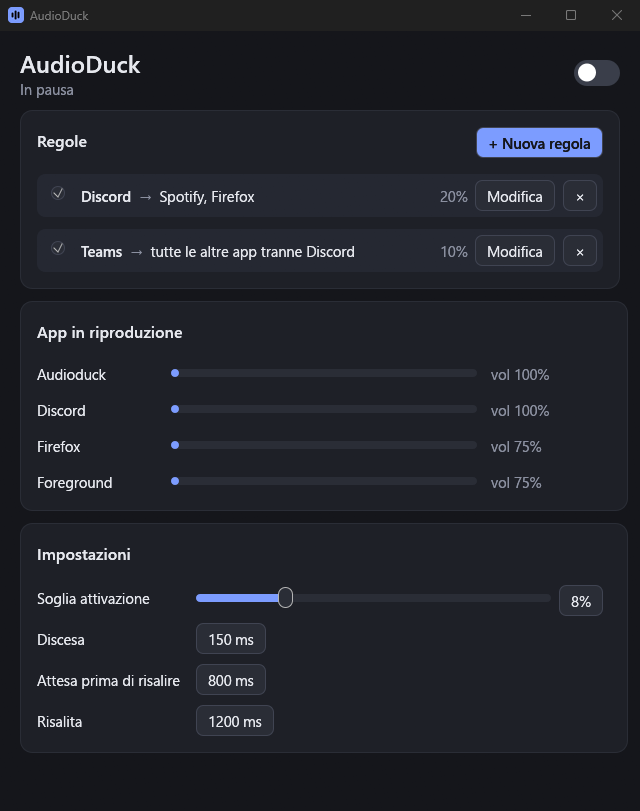
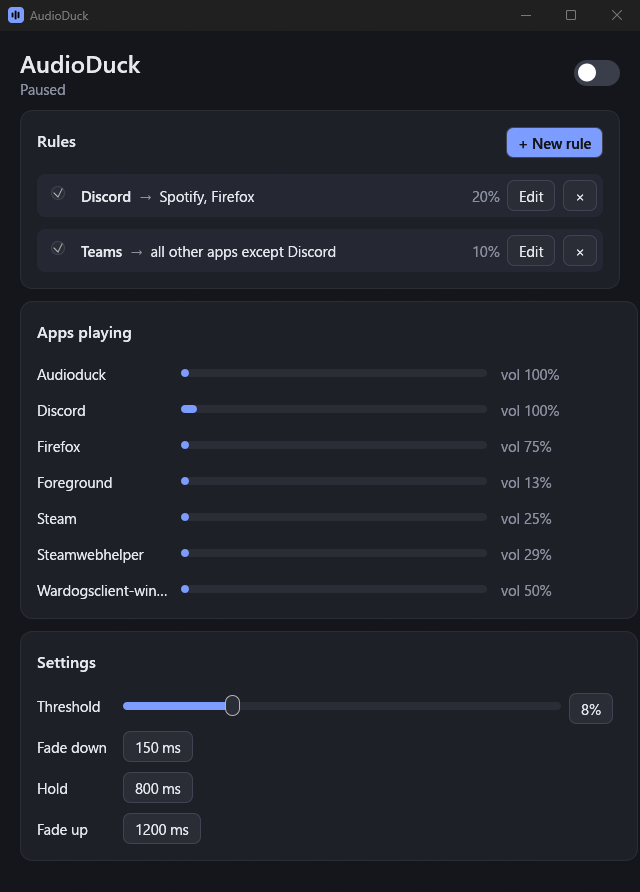
Desktop app UI in English (#18)
* Desktop app UI in English

* Shorten long app names in Apps playing and retake the screenshot in English

diff --git a/src/ui.rs b/src/ui.rs
@@ -158,12 +158,12 @@ impl Editor {
             .frame(Frame::new().fill(CARD).stroke(Stroke::new(1.0, BORDER)).corner_radius(12).inner_margin(Margin::same(18)))
             .show(ctx, |ui| {
                 ui.set_width(540.0);
-                ui.label(RichText::new(if self.index.is_some() { "Modifica regola" } else { "Nuova regola" }).size(18.0).family(semibold()));
+                ui.label(RichText::new(if self.index.is_some() { "Edit rule" } else { "New rule" }).size(18.0).family(semibold()));
                 ui.add_space(4.0);
                 ui.columns(2, |cols| {
                     let all_others = self.all_others;
-                    let right = if all_others { "…tranne queste" } else { "…abbassa" }; // with all_others the list is exclusions
-                    for (ui, (title, list)) in cols.iter_mut().zip([("Quando suona…", &mut self.sources), (right, &mut self.targets)]) {
+                    let right = if all_others { "…except these" } else { "…lower" }; // with all_others the list is exclusions
+                    for (ui, (title, list)) in cols.iter_mut().zip([("When this plays…", &mut self.sources), (right, &mut self.targets)]) {
                         ui.label(RichText::new(title).family(semibold()));
                         Frame::new().fill(BG).corner_radius(8).inner_margin(Margin::same(8)).show(ui, |ui| {
                             ui.set_width(ui.available_width());
@@ -174,16 +174,16 @@ impl Editor {
                             });
                         });
                     }
-                    cols[1].checkbox(&mut self.all_others, "Abbassa tutte le altre app");
+                    cols[1].checkbox(&mut self.all_others, "Lower all other apps");
                 });
                 ui.horizontal(|ui| {
-                    let edit = ui.add(egui::TextEdit::singleline(&mut self.manual).hint_text("App non in riproduzione, es. spotify.exe").desired_width(ui.available_width() - 100.0));
-                    if ui.button("Aggiungi").clicked() || (edit.lost_focus() && ui.input(|i| i.key_pressed(egui::Key::Enter))) {
+                    let edit = ui.add(egui::TextEdit::singleline(&mut self.manual).hint_text("App not playing yet, e.g. spotify.exe").desired_width(ui.available_width() - 100.0));
+                    if ui.button("Add").clicked() || (edit.lost_focus() && ui.input(|i| i.key_pressed(egui::Key::Enter))) {
                         self.add_manual();
                     }
                 });
                 ui.horizontal(|ui| {
-                    ui.label("Volume durante il ducking");
+                    ui.label("Volume while ducking");
                     let mut pct = (self.level * 100.0).round() as i32;
                     ui.spacing_mut().slider_width = ui.available_width() - 70.0;
                     if ui.add(Slider::new(&mut pct, 0..=100).suffix("%")).changed() {
@@ -195,17 +195,17 @@ impl Editor {
                 }
                 ui.add_space(4.0);
                 ui.with_layout(Layout::right_to_left(Align::Center), |ui| {
-                    if primary_button(ui, "Salva") {
+                    if primary_button(ui, "Save") {
                         let (sources, targets) = (Self::checked(&self.sources), Self::checked(&self.targets));
                         if sources.is_empty() {
-                            self.error = "Scegli almeno un'app che fa scattare il ducking.";
+                            self.error = "Pick at least one app that triggers ducking.";
                         } else if !self.all_others && targets.is_empty() {
-                            self.error = "Scegli almeno un'app da abbassare.";
+                            self.error = "Pick at least one app to lower.";
                         } else {
                             result = (true, Some(Rule { sources, targets, all_others: self.all_others, level: self.level, enabled: self.enabled }));
                         }
                     }
-                    if ui.button("Annulla").clicked() {
+                    if ui.button("Cancel").clicked() {
                         result = (true, None);
                     }
                 });
@@ -236,21 +236,21 @@ impl App {
 
     fn rules(&mut self, ui: &mut Ui, config: &mut Config, live: &Live) {
         let mut new_rule = false;
-        card(ui, "Regole", |ui| new_rule = primary_button(ui, "+ Nuova regola"), |ui| {
+        card(ui, "Rules", |ui| new_rule = primary_button(ui, "+ New rule"), |ui| {
             if config.rules.is_empty() {
-                ui.label(RichText::new("Nessuna regola. Esempio: quando suona Discord, abbassa Spotify al 20%.").color(MUTED));
+                ui.label(RichText::new("No rules yet. Example: when Discord plays, lower Spotify to 20%.").color(MUTED));
             }
             let mut delete = None;
             for (i, rule) in config.rules.iter_mut().enumerate() {
                 Frame::new().fill(ROW).corner_radius(8).inner_margin(Margin { left: 10, right: 6, top: 6, bottom: 6 }).show(ui, |ui| {
                     ui.set_width(ui.available_width());
                     ui.horizontal(|ui| {
-                        ui.checkbox(&mut rule.enabled, "").on_hover_text("Attiva/disattiva regola");
+                        ui.checkbox(&mut rule.enabled, "").on_hover_text("Turn rule on or off");
                         ui.with_layout(Layout::right_to_left(Align::Center), |ui| {
-                            if ui.button("×").on_hover_text("Elimina").clicked() {
+                            if ui.button("×").on_hover_text("Delete").clicked() {
                                 delete = Some(i);
                             }
-                            if ui.button("Modifica").clicked() {
+                            if ui.button("Edit").clicked() {
                                 self.editor = Some(Editor::new(Some(i), rule, live.peaks.iter().map(|(a, _)| a.clone())));
                             }
                             ui.label(RichText::new(format!("{}%", (rule.level * 100.0).round())).color(MUTED));
@@ -258,8 +258,8 @@ impl App {
                                 let sources = rule.sources.iter().map(|a| pretty(a)).collect::<Vec<_>>().join(", ");
                                 let listed = rule.targets.iter().map(|a| pretty(a)).collect::<Vec<_>>().join(", ");
                                 let targets = match (rule.all_others, rule.targets.is_empty()) {
-                                    (true, true) => "tutte le altre app".into(),
-                                    (true, false) => format!("tutte le altre app tranne {listed}"),
+                                    (true, true) => "all other apps".into(),
+                                    (true, false) => format!("all other apps except {listed}"),
                                     _ => listed,
                                 };
                                 ui.label(RichText::new(sources).family(semibold()));
@@ -280,15 +280,21 @@ impl App {
     }
 
     fn apps(ui: &mut Ui, config: &Config, live: &Live) {
-        card(ui, "App in riproduzione", |_| {}, |ui| {
+        card(ui, "Apps playing", |_| {}, |ui| {
             if live.peaks.is_empty() {
-                ui.label(RichText::new("Nessuna app sta usando l'audio.").color(MUTED));
+                ui.label(RichText::new("No app is playing audio.").color(MUTED));
                 return;
             }
             let bar_width = (ui.available_width() - 260.0).max(80.0);
             egui::Grid::new("apps").num_columns(3).spacing(vec2(14.0, 10.0)).min_col_width(120.0).show(ui, |ui| {
                 for (app, peak) in &live.peaks {
-                    ui.label(pretty(app));
+                    // long process names would push the whole window wider than it is
+                    let name = pretty(app);
+                    if name.chars().count() > 18 {
+                        ui.label(format!("{}…", name.chars().take(17).collect::<String>())).on_hover_text(name);
+                    } else {
+                        ui.label(name);
+                    }
                     let loud = *peak > config.settings.threshold; // orange = loud enough to trigger a rule
                     ui.add(ProgressBar::new(*peak).desired_width(bar_width).desired_height(8.0).corner_radius(4).fill(if loud { DUCKING } else { ACCENT }));
                     let g = if config.enabled { live.gains.get(app).copied().unwrap_or(1.0) } else { 1.0 };
@@ -301,17 +307,17 @@ impl App {
     }
 
     fn settings(ui: &mut Ui, config: &mut Config) {
-        card(ui, "Impostazioni", |_| {}, |ui| {
+        card(ui, "Settings", |_| {}, |ui| {
             let s = &mut config.settings;
             egui::Grid::new("settings").num_columns(2).spacing(vec2(16.0, 10.0)).show(ui, |ui| {
-                ui.label("Soglia attivazione").on_hover_text("Le barre diventano arancioni sopra la soglia");
+                ui.label("Threshold").on_hover_text("Bars turn orange above the threshold");
                 let mut pct = (s.threshold * 100.0).round() as i32;
                 ui.spacing_mut().slider_width = (ui.available_width() - 60.0).max(120.0);
                 if ui.add(Slider::new(&mut pct, 1..=30).suffix("%")).changed() {
                     s.threshold = pct as f32 / 100.0;
                 }
                 ui.end_row();
-                for (label, v) in [("Discesa", &mut s.attack_ms), ("Attesa prima di risalire", &mut s.hold_ms), ("Risalita", &mut s.release_ms)] {
+                for (label, v) in [("Fade down", &mut s.attack_ms), ("Hold", &mut s.hold_ms), ("Fade up", &mut s.release_ms)] {
                     ui.label(label);
                     ui.add(egui::DragValue::new(v).range(0..=5000).speed(10).suffix(" ms"));
                     ui.end_row();
@@ -360,7 +366,7 @@ impl eframe::App for App {
                         ui.vertical(|ui| {
                             ui.spacing_mut().item_spacing.y = 0.0;
                             ui.label(RichText::new("AudioDuck").size(24.0).family(semibold()));
-                            let status = if !config.enabled { "In pausa" } else if live.ducking { "Sta abbassando il volume…" } else { "In ascolto" };
+                            let status = if !config.enabled { "Paused" } else if live.ducking { "Lowering the volume…" } else { "Listening" };
                             ui.label(RichText::new(status).color(if live.ducking && config.enabled { DUCKING } else { MUTED }));
                         });
                         ui.with_layout(Layout::right_to_left(Align::Center), |ui| toggle(ui, &mut config.enabled));

diff --git a/src/main.rs b/src/main.rs
@@ -131,9 +131,9 @@ fn engine_thread(shared: SharedRef, ctx: eframe::egui::Context) {
     let mut mixer = audio::Mixer::new(state);
     let mut cfg = shared.lock().unwrap().config.clone();
 
-    let open = MenuItem::new("Apri AudioDuck", true, None);
-    let toggle = CheckMenuItem::new("Ducking attivo", true, cfg.enabled, None);
-    let quit = MenuItem::new("Esci", true, None);
+    let open = MenuItem::new("Open AudioDuck", true, None);
+    let toggle = CheckMenuItem::new("Ducking on", true, cfg.enabled, None);
+    let quit = MenuItem::new("Quit", true, None);
     let menu = Menu::new();
     let _ = menu.append_items(&[&open, &toggle, &PredefinedMenuItem::separator(), &quit]);
     // tray-icon needs a message loop on its thread: the wait below pumps it.
@@ -217,7 +217,7 @@ fn engine_thread(shared: SharedRef, ctx: eframe::egui::Context) {
             was = (cfg.enabled, Some(ducking));
             if let Some(t) = &tray {
                 let _ = t.set_icon(tray_icon(if ducking { DUCKING } else if cfg.enabled { ACCENT } else { OFF }));
-                let _ = t.set_tooltip(Some(format!("AudioDuck — {}", if ducking { "sta abbassando" } else if cfg.enabled { "attivo" } else { "in pausa" })));
+                let _ = t.set_tooltip(Some(format!("AudioDuck — {}", if ducking { "lowering" } else if cfg.enabled { "on" } else { "paused" })));
             }
             toggle.set_checked(cfg.enabled);
         }
